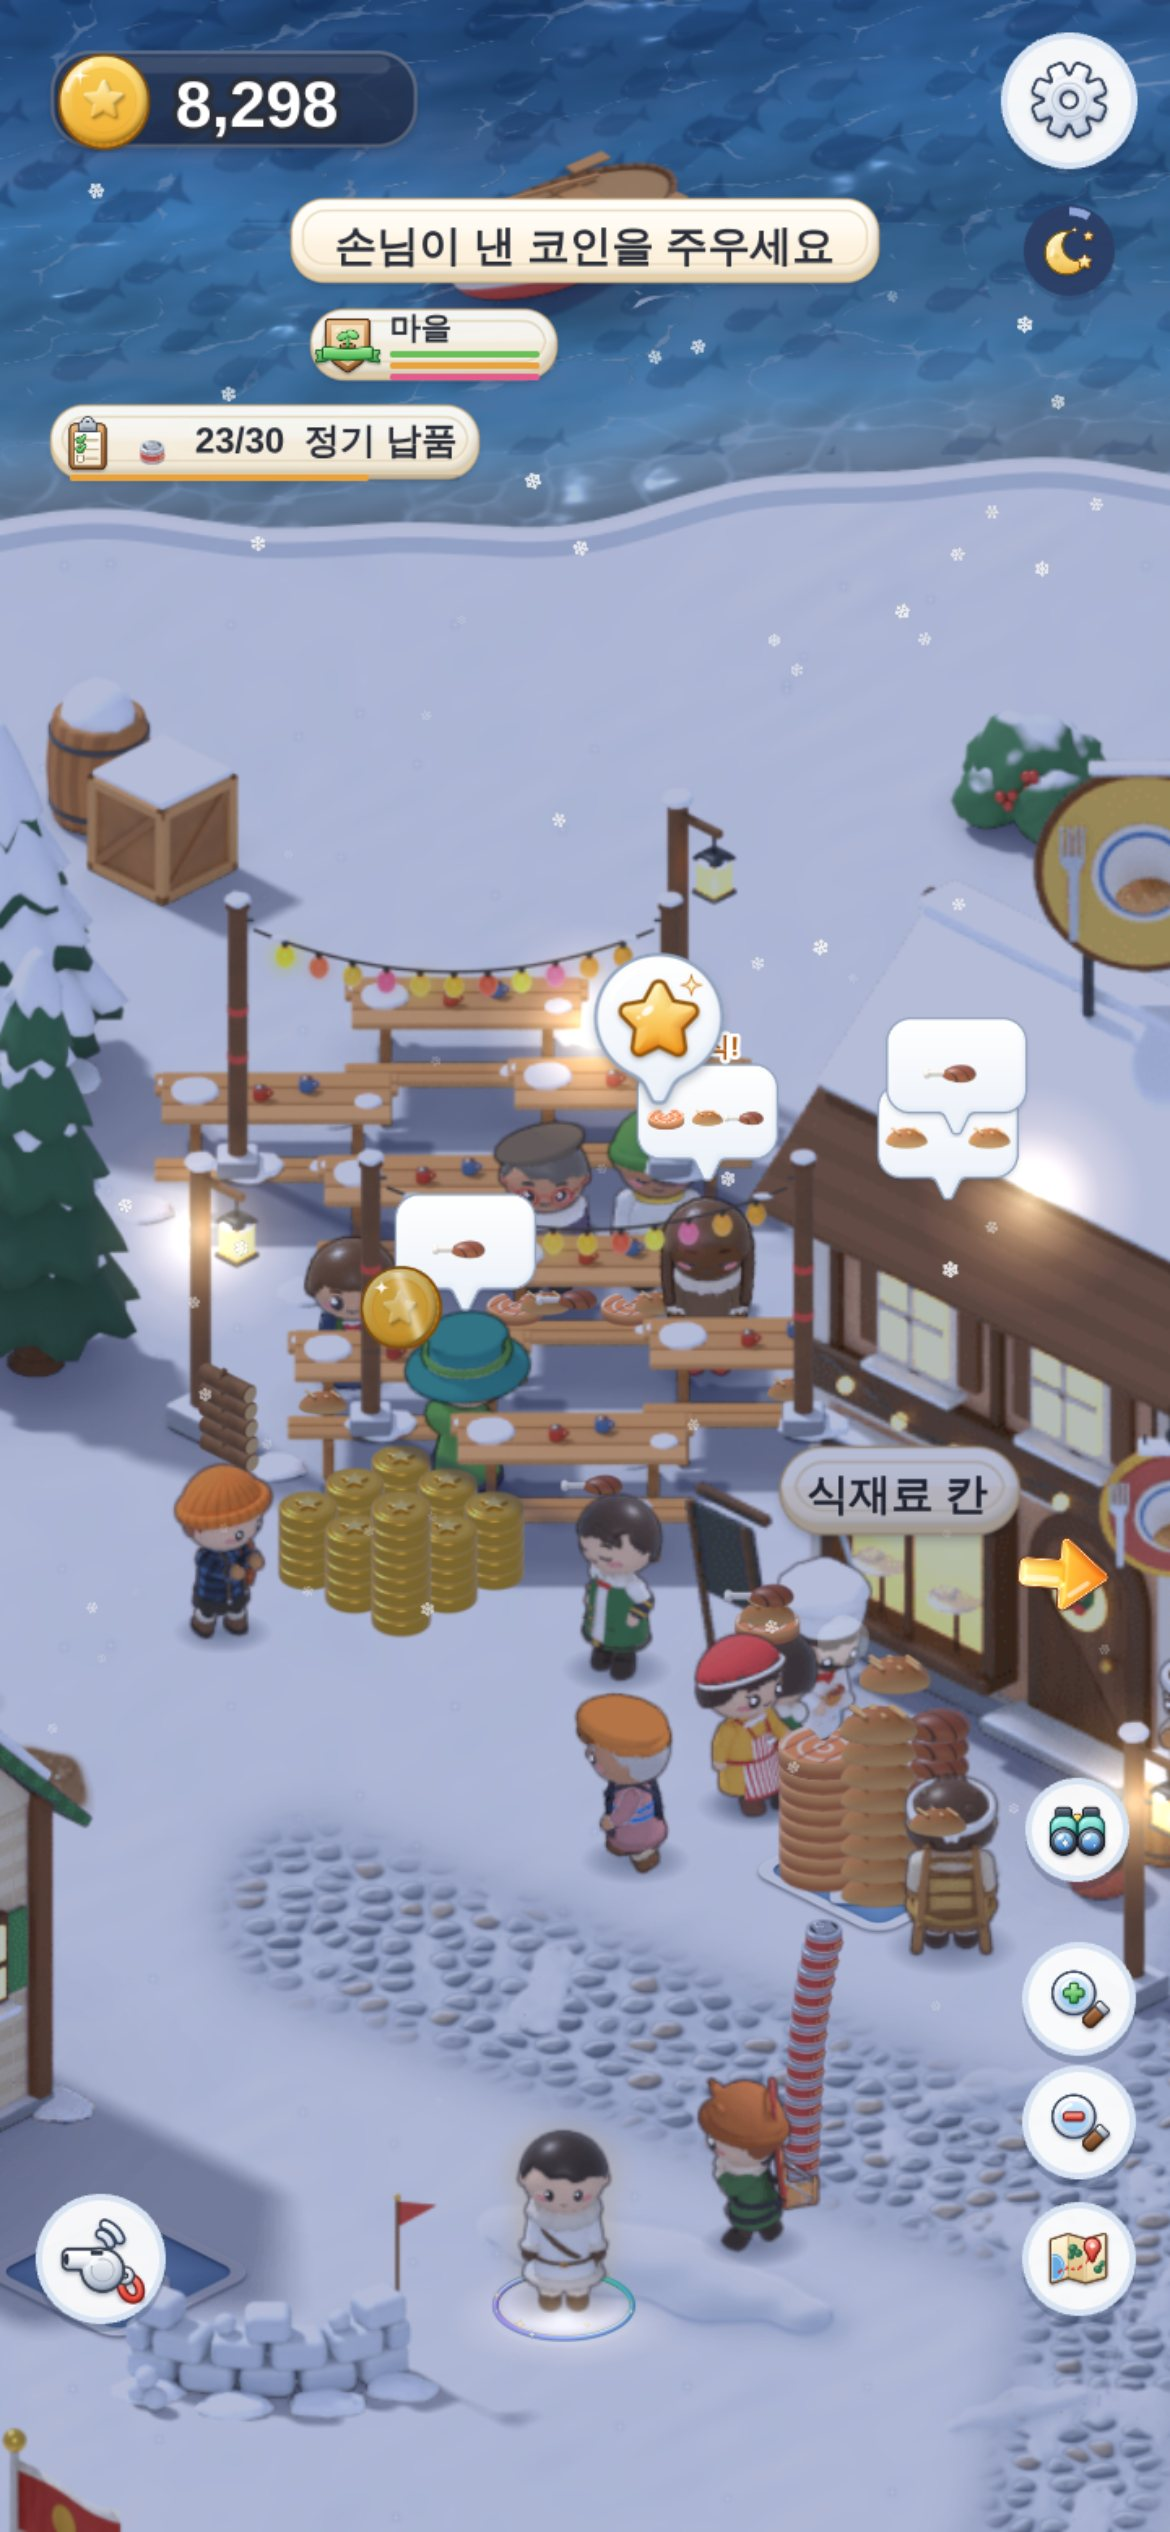
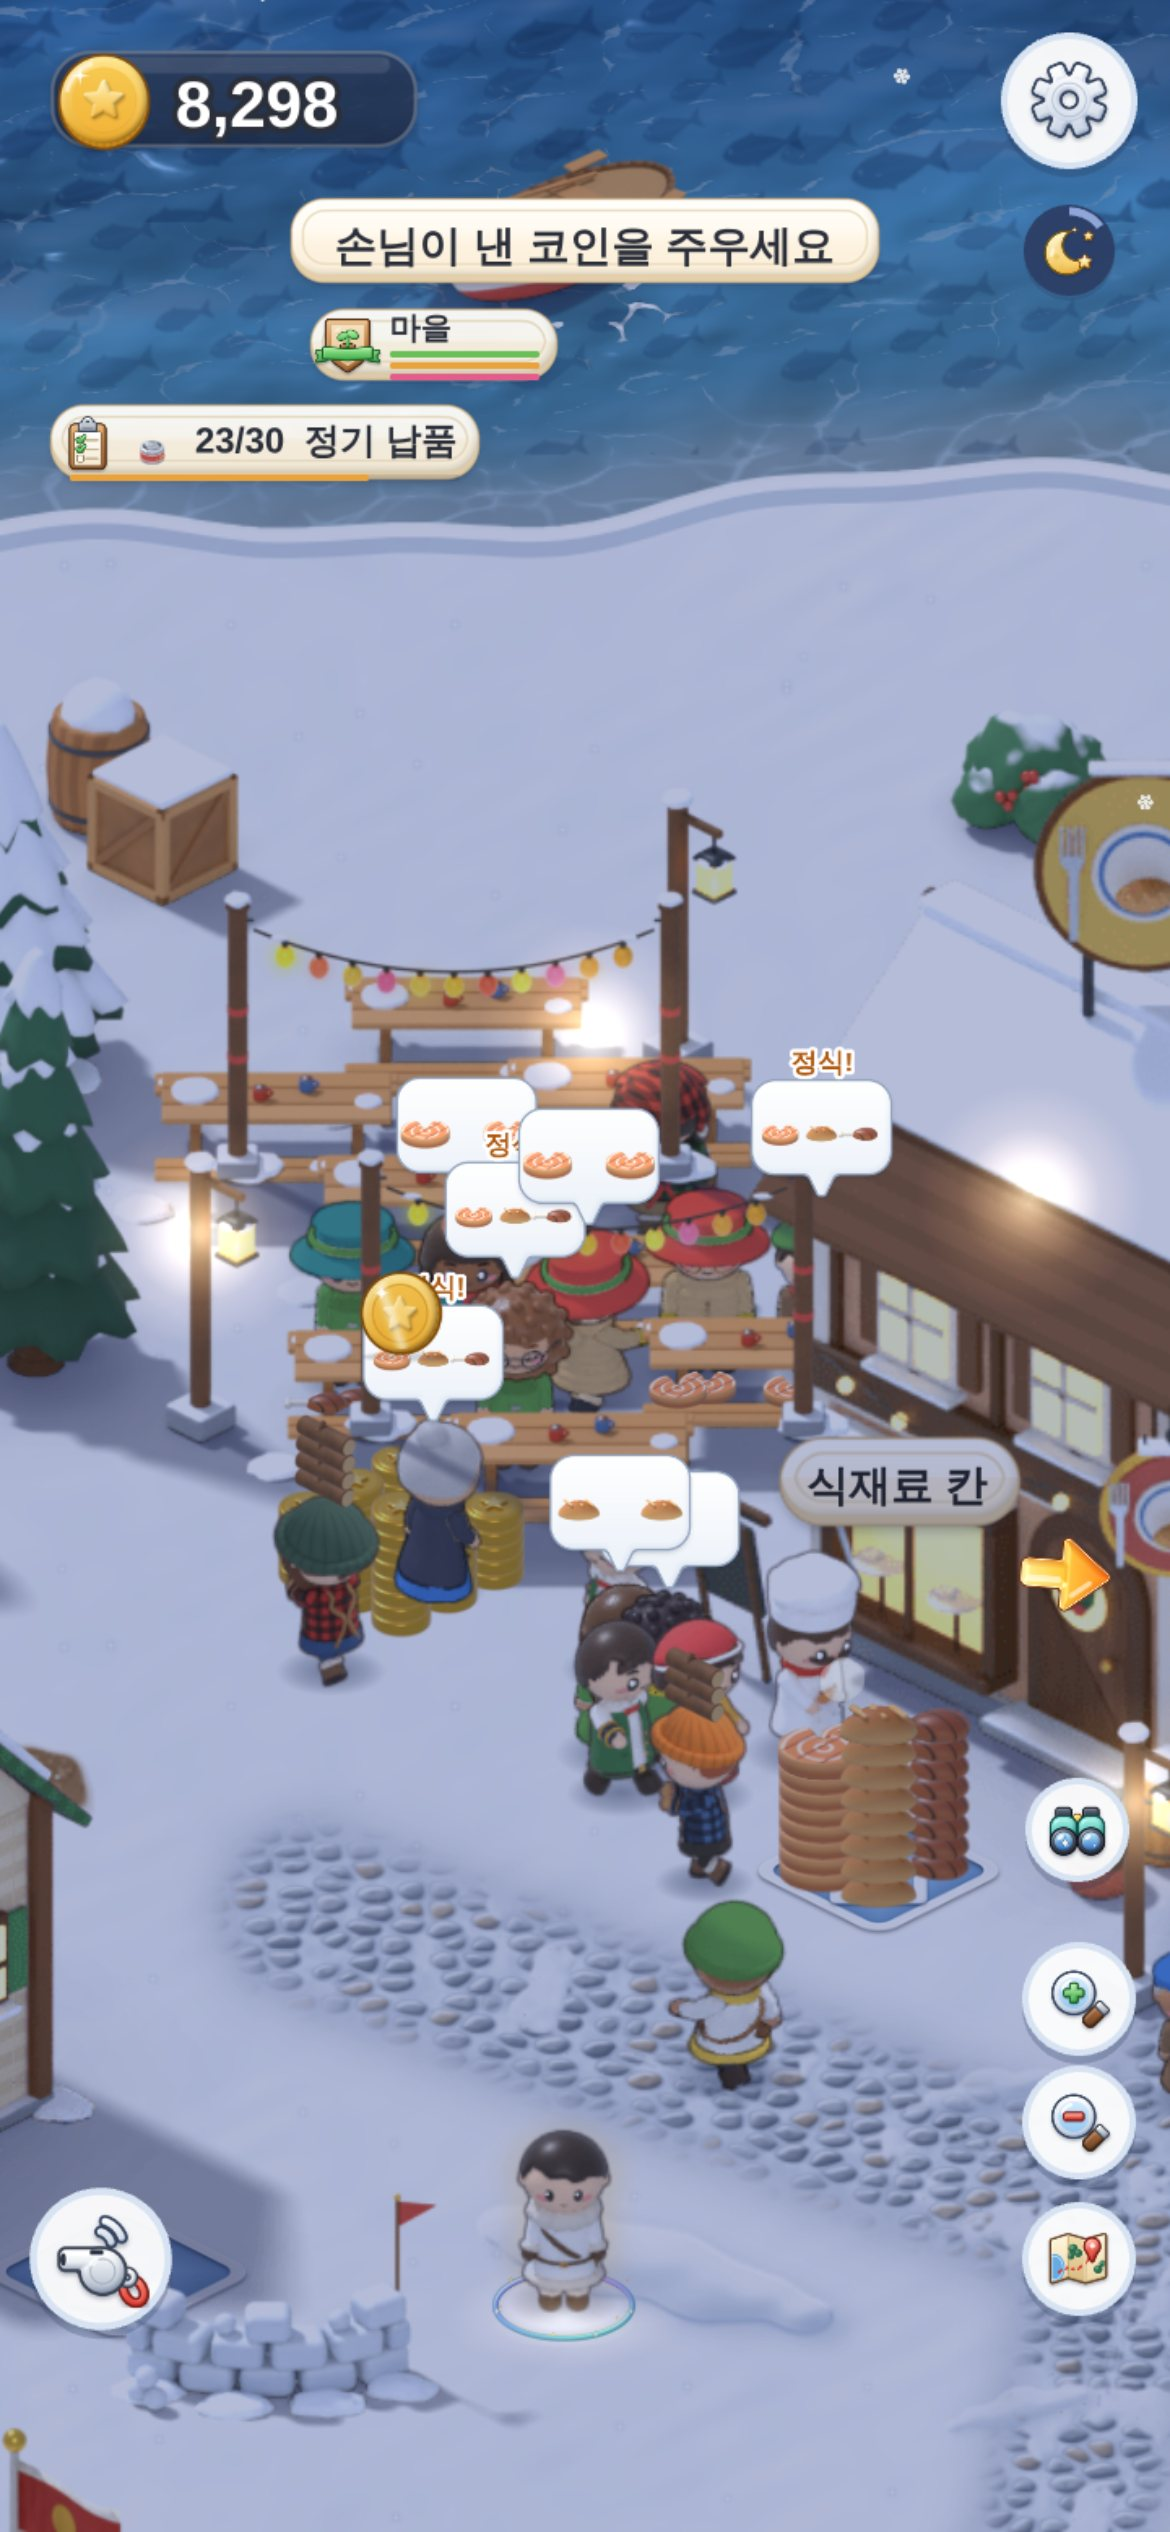
WIP snapshot: v4.2 touch and investigations in progress
Claude-Session: https://claude.ai/code/session_013Tw35UF4PB1GXz6AR9E9kG

diff --git a/frost-village/docs/build_reports/v42_touch.md b/frost-village/docs/build_reports/v42_touch.md
@@ -213,7 +213,26 @@ machine: the whole-step averages swing 9–64 ms between batches, so only the co
 
 ## 8. Screenshots (`docs/previews/screens_v42/`, 390 × 844, DPR 3, Korean)
 
-{{SHOTS}}
+`node tools/test/shots_v42_touch.mjs` (30 with `--repo` on the base copy). Looked at each; what was fixed is noted.
+
+| File | What it shows |
+|---|---|
+| `30_restaurant_busy_before.jpg` | **Before** (base copy): the designer's picture — 8 terrace seats full of guests waiting with 정식 bubbles, a queue, the server stuck at the tables |
+| `31_restaurant_tables_lv1.jpg` | Level 1: two back-yard tables behind the terrace and a second lantern string; a staged lunch rush (guests every 2.6 s) with one server, so the 「서빙 직원 2 고용」 pad (1,000) has appeared by the staff spot |
+| `32_restaurant_tables_lv2.jpg` | Level 2 + 서빙 직원 2: 8 tables / 16 seats; with two servers plates arrive in seconds, seats free up and the line now waits at the register |
+| `33_restaurant_tables_night.jpg` | The same at 22:00: the back yard under its lantern strings, 10 guests seated (4 eating) |
+| `34_tables_pad.jpg` | The 테이블 늘리기 pad (1,200) where the first new tables go, with its banner (`큰 식당에 자리가 모자라요!` / `식당 뒤뜰에 테이블을 늘릴 수 있어요`) |
+| `35_porter2_cannery_pad.jpg` | The 통조림 짐꾼 2 pad (700) by the cannery door, banner `통조림이 쌓여요` / `통조림 짐꾼 2를 부를 수 있어요` |
+| `36_warehouse_crew_arrives.jpg` | A new 창고 직원 coming up the west road to the 창고 (red barn), banner `창고 직원이 한 명 더 왔어요` / `마을이 바빠져서 창고 직원이 3명이 되었어요` |
+
+Fixed after looking: 31 first framed the 서빙 직원 2 label under the HUD buttons (camera moved); 34 first had the chief
+standing in the restaurant so the building was cut away, and another pad's banner (빵 오븐 2단) on top (the chief moved,
+other pads' banners marked seen for the picture); 36 first showed the porter after his walk with the banner gone and
+half-loaded ground (now 0.5 s into the walk, held while the view settles); 32–33 were first shot after a calm when the
+restaurant had emptied (now during the rush); 33 at 20:36 looked like day (now 22:00 — the game's night is a light blue
+tint, as in the v4.2 night shots). Labels at 360 × 640 (scratch `shots360/`): both banners fit on two lines; the pad
+labels fit; the 서빙 직원 2 pad label can sit under the zoom buttons when the restaurant is at the right edge (camera
+framing only).
 
 ## 9. Files
 
